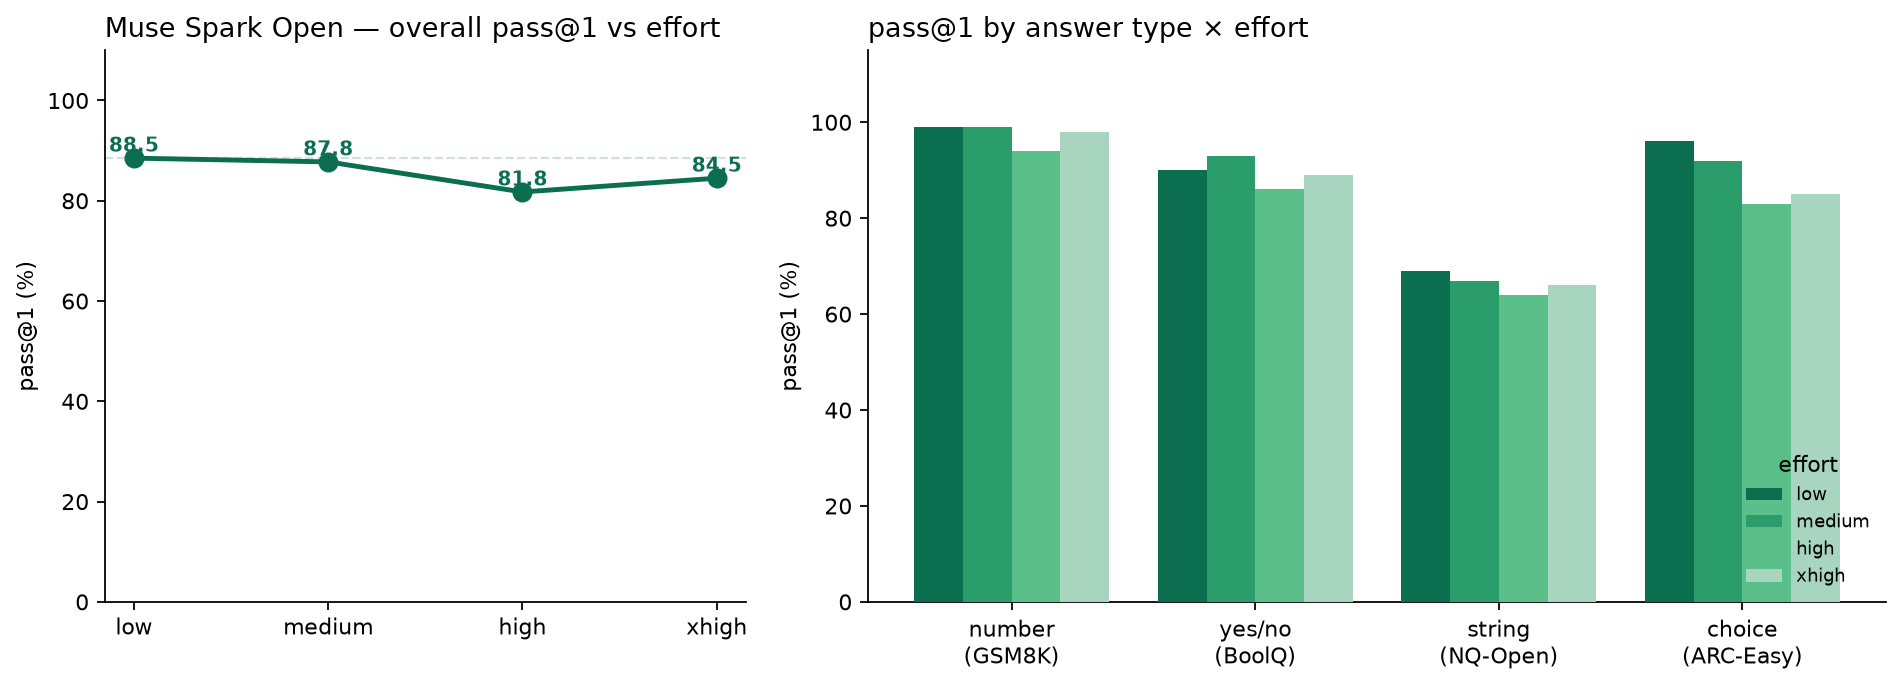
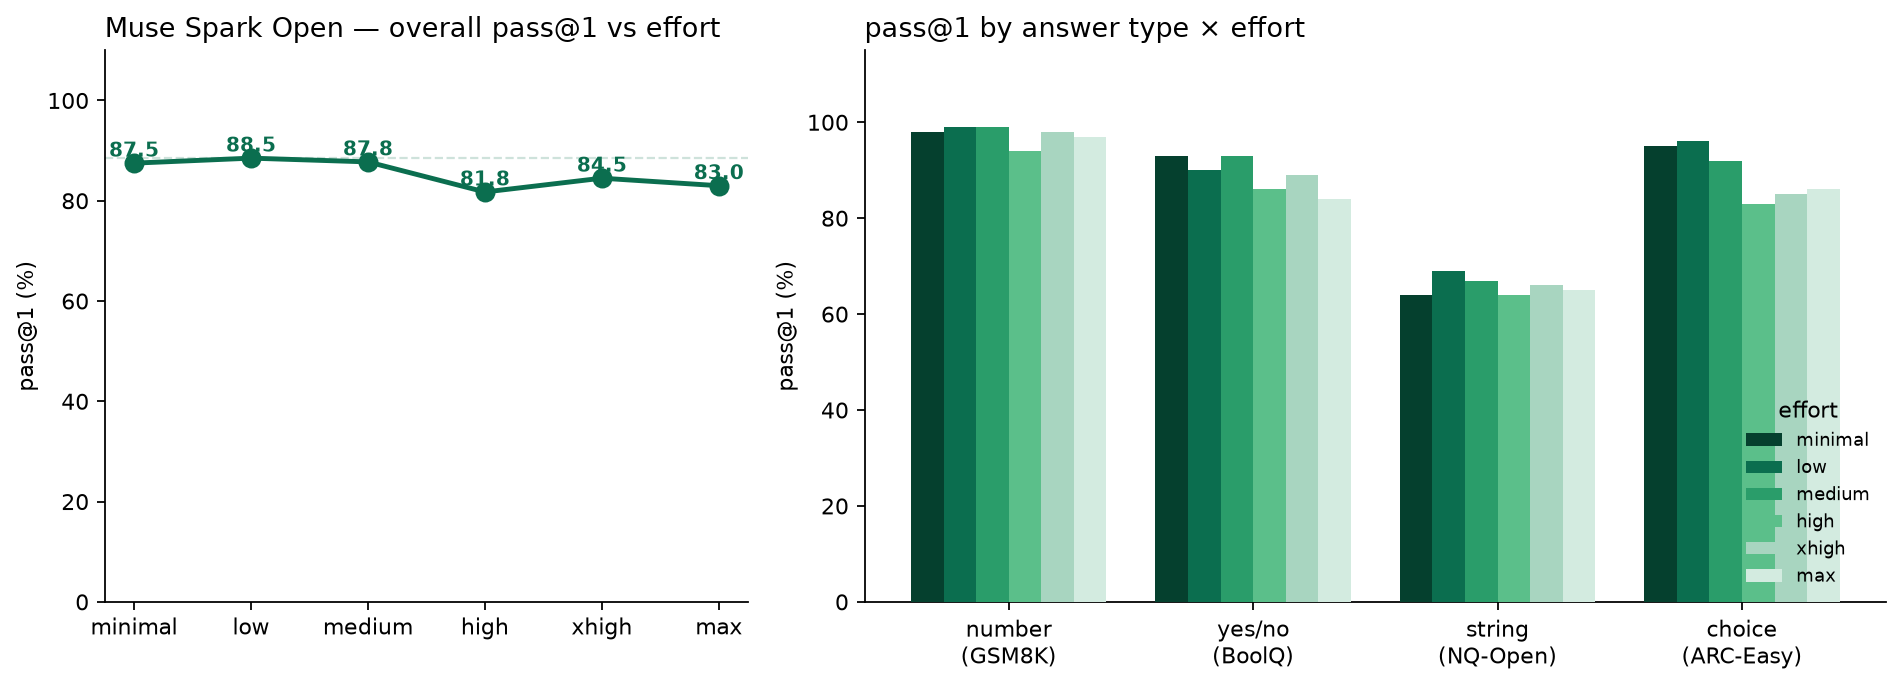
Added more reasoning efforts

diff --git a/experiments/meta-hackathon-muse/run_simple_bench.py b/experiments/meta-hackathon-muse/run_simple_bench.py
@@ -34,8 +34,8 @@ MODELS = [
         "label": "Muse Spark Open",
         "short": "muse",
         "model": "accounts/fireworks/models/muse-spark-open",
-        # Muse always reasons; valid ladder is low / medium / high / xhigh (no "none").
-        "efforts": ["low", "medium", "high", "xhigh"],
+        # Muse always reasons, so "none" is rejected.
+        "efforts": ["minimal", "low", "medium", "high", "xhigh", "max"],
     },
     {
         "label": "DeepSeek V4.1 Flash",

diff --git a/experiments/meta-hackathon-muse/README.md b/experiments/meta-hackathon-muse/README.md
@@ -41,19 +41,19 @@ The notebook also plots published [Specialized Intelligence Index](https://firew
 
 ### Muse effort sweep — `muse_reasoning_sweep.ipynb`
 
-Same suite, Muse only, across its full effort ladder (Muse does not accept `none`).
+Same suite, Muse only, across all six effort levels (Muse rejects `none`).
 
-| Bench | low | medium | high | xhigh |
-|---|---:|---:|---:|---:|
-| GSM8K | **99** | **99** | 94 | 98 |
-| BoolQ | 90 | **93** | 86 | 89 |
-| NQ-Open | **69** | 67 | 64 | 66 |
-| ARC-Easy | **96** | 92 | 83 | 85 |
-| **Overall** | **88.5** | 87.8 | 81.8 | 84.5 |
+| Bench | minimal | low | medium | high | xhigh | max |
+|---|---:|---:|---:|---:|---:|---:|
+| GSM8K | 98 | **99** | **99** | 94 | 98 | 97 |
+| BoolQ | **93** | 90 | **93** | 86 | 89 | 84 |
+| NQ-Open | 64 | **69** | 67 | 64 | 66 | 65 |
+| ARC-Easy | 95 | **96** | 92 | 83 | 85 | 86 |
+| **Overall** | 87.5 | **88.5** | 87.8 | 81.8 | 84.5 | 83.0 |
 
 ![Muse pass@1 vs reasoning effort](muse_effort_sweep.png)
 
-On these easy tasks Muse peaks at `low`. Higher effort costs more tokens and lowers pass@1.
+On these easy tasks Muse peaks at `low`, with `minimal` and `medium` within a point. Higher effort costs more tokens and lowers pass@1. Part of the `max` drop is truncation: 19 of 400 `max` answers were empty because reasoning used up the 2,048-token output limit.
 
 ## Train Muse Glimmer as a router — `muse_glimmer_train_router.ipynb`
 
